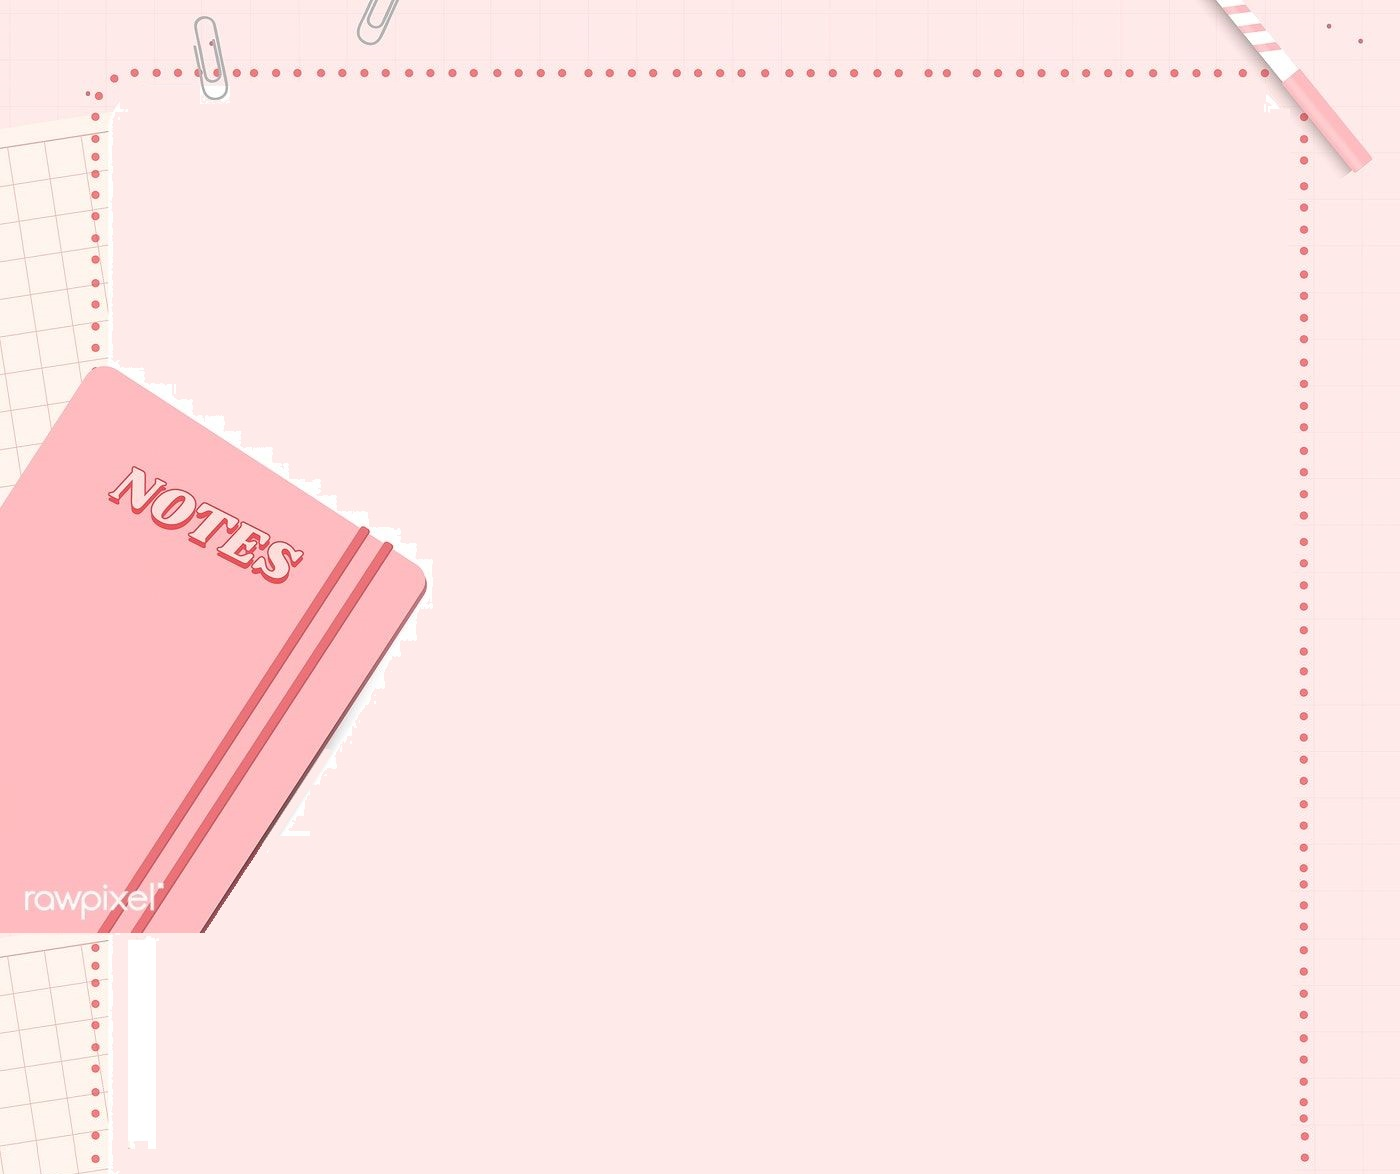
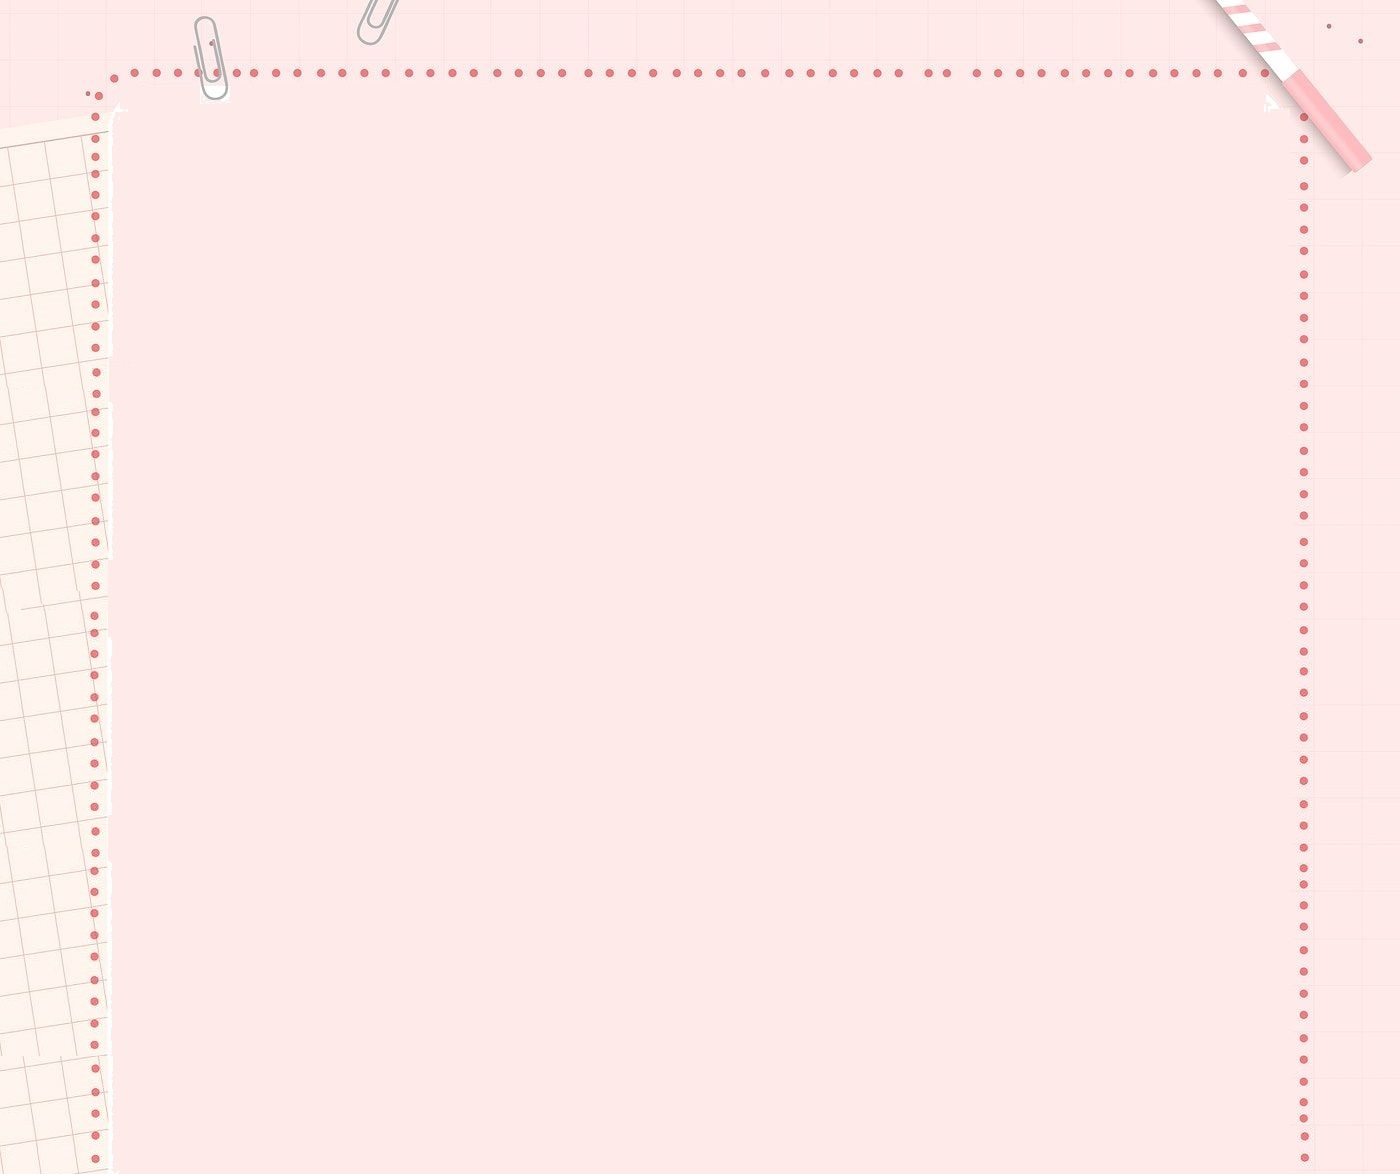
Falta refatorar

Changed region(s): [[0.0, 0.3066, 0.3071, 0.8586]]

diff --git a/index.js b/index.js
@@ -9,7 +9,7 @@ let horarioInicial;
 let inicioTarefa;
 let finalTarefa;
 let duracaoString;
-let bool = false;  
+let bool = false;           // impede que o drop seja acionado mais de uma vez seguida
 let posicaoInicialItemMovimentado;
 let posicaoFinalItemMovimentado;  
 let enderecoLixeira = "images/delete_transparente.png";  
@@ -54,10 +54,7 @@ document.querySelector(".btn-enviar").addEventListener("click", function(e) {
             <span class="espacamento">${tarefa.nome}</span>
             <span class="espacamento">${duracaoString}</span>
         `;
-
-        // if (tarefas.length === 1 && !document.querySelector(".titulos")) {
-        //     document.querySelector(".tarefas").insertAdjacentHTML("beforeend", `<p class="titulos"><span class="espacamento"></span><span class="espacamento">INÍCIO</span><span class="espacamento">TAREFA</span><span class="espacamento">DURAÇÃO</span></p>`);          
-        // }
+ 
 
         document.querySelector(".tarefas").insertAdjacentHTML("beforeend", `
             <p 
@@ -190,8 +187,7 @@ function dragAndDrop() {
                 return valorInicial
             }
         }, {offset: Number.NEGATIVE_INFINITY}).element
- 
-        deletar();
+  
     }
 
     
@@ -201,23 +197,19 @@ function dragAndDrop() {
         
         
         if (bool === false) {       // impede que o evento seja acionado mais de uma vez seguida
-                 
-            let id = document.querySelector(".tarefa-selecionada").id.split("-")[1];  
-            
-            posicaoInicialItemMovimentado = document.querySelector(".tarefa-selecionada").id.slice(id); 
+                   
+            posicaoInicialItemMovimentado = document.querySelector(".tarefa-selecionada").id.split("-")[1]; 
 
             for (let i = 0; i < document.querySelectorAll(".tarefa-item").length; i++) {
 
-                let idNumber = document.querySelectorAll(".tarefa-item")[i].id.slice(id); 
+                let idNumber = document.querySelectorAll(".tarefa-item")[i].id.split("-")[1]; 
 
                 if (posicaoInicialItemMovimentado == idNumber) {
                     posicaoFinalItemMovimentado = i;
                 }
  
             }
- 
-
-
+  
 
             if (posicaoFinalItemMovimentado != posicaoInicialItemMovimentado) {
  
@@ -271,17 +263,7 @@ function atualizaHorarios () {
         calculaHorarios2 (i);
         
         tarefas[i].final = finalTarefa;
-
-        // let horaAtual = new Date().toLocaleTimeString(navigator.language, {hourCycle: 'h23', hour: "numeric", minute: "numeric"});
  
-        // if (tarefas[i].inicio === horaAtual) {
-
-        //     if (document.querySelector(".tarefa-atual")) {
-        //         document.querySelector(".tarefa-atual").classList.remove("tarefa-atual");
-        //     }
-
-        //     document.getElementById(`tarefa-${i}`).classList.add("tarefa-atual");
-        // }
     }
 
     salvamentoLocal();
@@ -303,21 +285,9 @@ function atualizaHorarios () {
         `;
 
         document.getElementById(`tarefa-${index}`).innerHTML = novoTexto;
-        
-        // let horaAtual = new Date().toLocaleTimeString(navigator.language, {hourCycle: 'h23', hour: "numeric", minute: "numeric"});
- 
-        // if (cadaTarefa.inicio === horaAtual) {
-
-        //     if (document.querySelector(".tarefa-atual")) {
-        //         document.querySelector(".tarefa-atual").classList.remove("tarefa-atual");
-        //     }
-
-        //     document.getElementById(`tarefa-${index}`).classList.add("tarefa-atual");
-        // }
+         
     });
-
-    // document.querySelector(".console").insertAdjacentHTML("beforeend", `TAREFAS FINAL = ${JSON.stringify(tarefas)} <br>`);   
- 
+  
 }
 
   
@@ -369,17 +339,18 @@ function deletar() {
         enderecoLixeira = "images/delete_transparente.png";  
     });
 
+
     document.querySelectorAll(".tarefa-item").forEach(tarefa => { 
 
-        let id = tarefa.id.split("-")[1];  
+        // let id = tarefa.id.split("-")[1];  
             
         tarefa.addEventListener('mouseenter', function(event) {
-            document.getElementById(`lixeira-${event.target.id.slice(7, undefined)}`).src = "images/delete.png";
+            document.getElementById(`lixeira-${event.target.id.split("-")[1]}`).src = "images/delete.png";
             enderecoLixeira = "images/delete.png"; 
         });
 
         tarefa.addEventListener('mouseleave', function(event) {
-            document.getElementById(`lixeira-${event.target.id.slice(7, undefined)}`).src = "images/delete_transparente.png";
+            document.getElementById(`lixeira-${event.target.id.split("-")[1]}`).src = "images/delete_transparente.png";
             enderecoLixeira = "images/delete_transparente.png";  
         });
     });
@@ -387,22 +358,17 @@ function deletar() {
     document.querySelectorAll(".lixeiras").forEach(lixeira => { 
 
         lixeira.addEventListener('click', function(event) { 
-                 
-            // let id = document.querySelector(".tarefa-selecionada").id.split("-")[1];  
+                  
             console.log(event);
-            document.getElementById(`tarefa-${event.target.className.slice(7, undefined)}`).remove();
-            tarefas.splice(event.target.className.slice(7, undefined), 1); 
+            document.getElementById(`tarefa-${event.target.id.split("-")[1]}`).remove();
+            tarefas.splice(event.target.id.split("-")[1], 1); 
 
             salvamentoLocal();
 
             atualizaHorarios ();
             
             deletar();
-
-            // tarefas.forEach((tarefa, index) => {
-            //     document.querySelector(`.lixeira-${index}`).src = "images/delete_transparente.png";
-            //     enderecoLixeira = "images/delete_transparente.png";  
-            // });
+ 
         });
     });
  
@@ -452,7 +418,14 @@ window.onload = function() {
             <span class="espacamento">${duracaoString}</span>
             `;
   
-            document.querySelector(".tarefas").insertAdjacentHTML("beforeend", `<p class="tarefa-item animacao-sobe" draggable="true" id="tarefa-${i}">${novoTexto}</p>`);
+            document.querySelector(".tarefas").insertAdjacentHTML("beforeend", `
+                <p 
+                    class="tarefa-item animacao-sobe" 
+                    draggable="true" 
+                    id="tarefa-${i}">
+                    ${novoTexto}
+                </p>
+            `);
         }
          
        dragAndDrop();  
@@ -490,9 +463,6 @@ window.onload = function() {
                     }, 60000);   
                 }
             } 
-        });
-        
-    }
- 
-}
-
+        }); 
+    } 
+} 

diff --git a/styles.css b/styles.css
@@ -13,7 +13,7 @@
 
 body {  
   background-color: rgba(254,235,232,255);
-  background-image: url(images/background2\.jpg);
+  background-image: url(images/background\.jpg);
   background-size: cover;   
   background-repeat: no-repeat;  
   max-height: 96vh; 
@@ -174,8 +174,12 @@ input::placeholder {
 
 @media (max-width: 1000px) {
  
-  .tarefas { 
+  .all {
     width: 80vw;
+  }
+  
+  .tarefas { 
+    width: 100%;
   }
 
   .titulos,  
@@ -207,11 +211,14 @@ input::placeholder {
   }
 
   
-  /* body {  
-    background-image: url(images/background\.jpg);
-    background-size: cover;  
-    max-height: 96vh; 
-  } */
+h1 {
+  margin: 6vh 0 40px; 
+} 
+
+  body {  
+    background-image: url(images/background2.jpg);
+    background-size: contain;   
+  } 
 
 }
  

diff --git a/index.html b/index.html
@@ -11,13 +11,13 @@
 	</head>
 
 	<body>  
+		<div class="all">
 		
 		<header>
 			<h1>Minhas Tarefas</h1> 
 			<p class="descricao">Digite o nome das tarefas e suas durações, <span class="nowrap">que calculamos os horários pra você!</span></p>
 		</header>
 
-		<div class="all">
 
 			<div class="input">
 				
